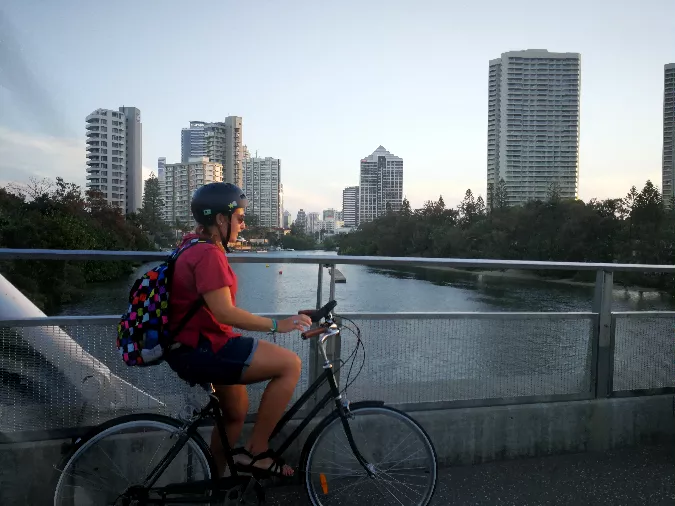
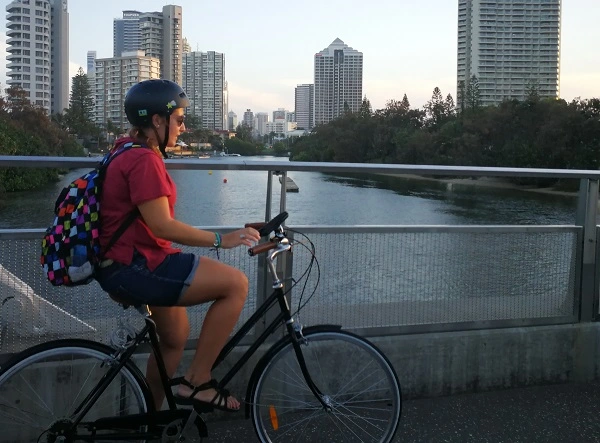
added art direction to main img

diff --git a/src/index.html b/src/index.html
@@ -33,8 +33,8 @@
     
     <picture>
       <source media="(max-width: 700px)" srcset="img/homeMainImg-min.webp">
-      <source media="(min-width: 701px)" srcset="img/homeMainImg.webp">
-      <img loading="lazy" class="img-section" src="img/homeMainImg.webp" alt="Miriam en una biciceta">
+      <source media="(min-width: 701px)" srcset="img/homeMainImg-max.webp">
+      <img loading="lazy" class="img-section" src="img/homeMainImg-max.webp" alt="Miriam en una biciceta">
     </picture>
     
     <div class="home__welcome">
